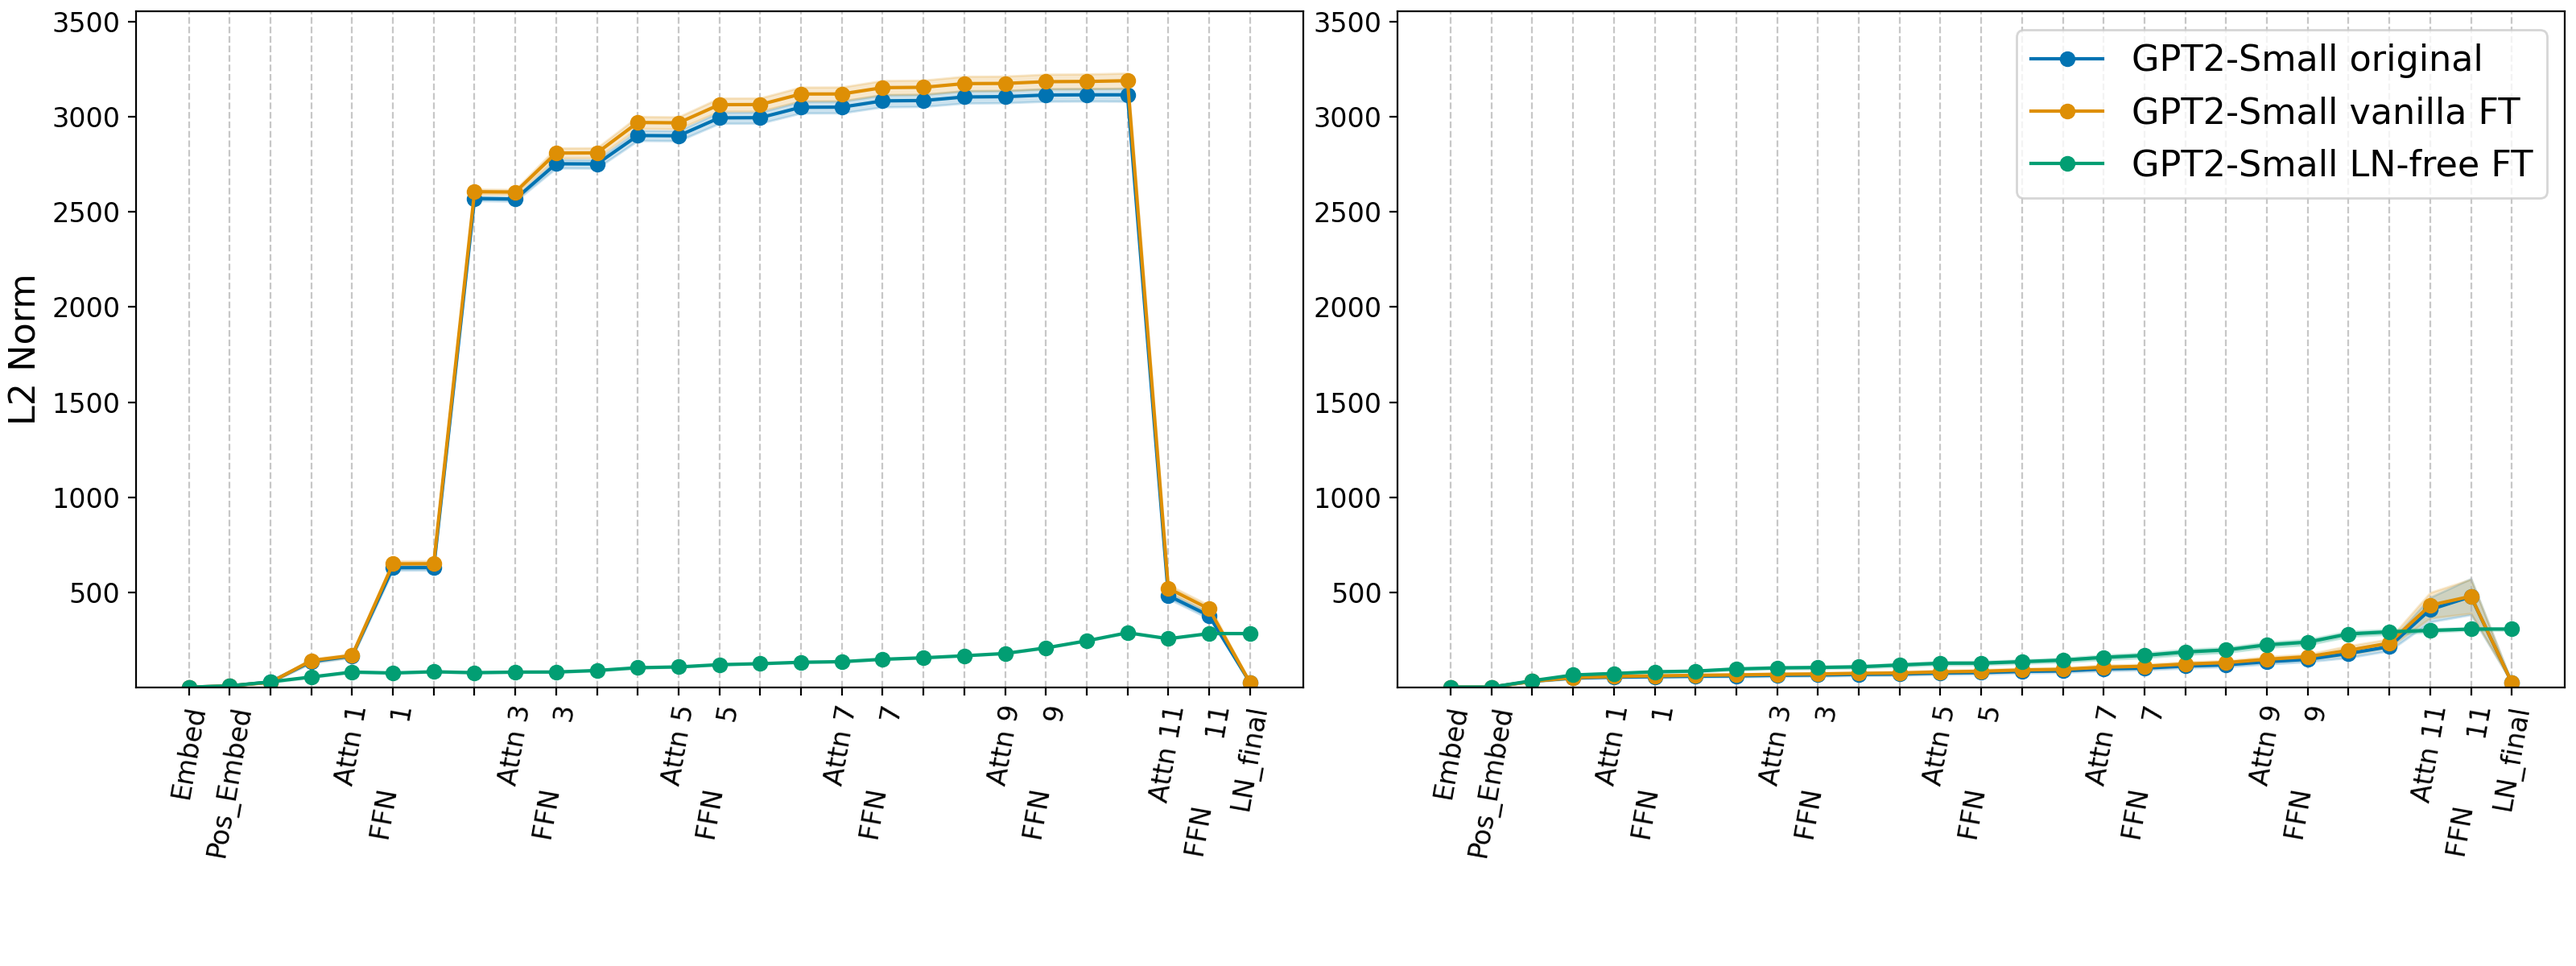
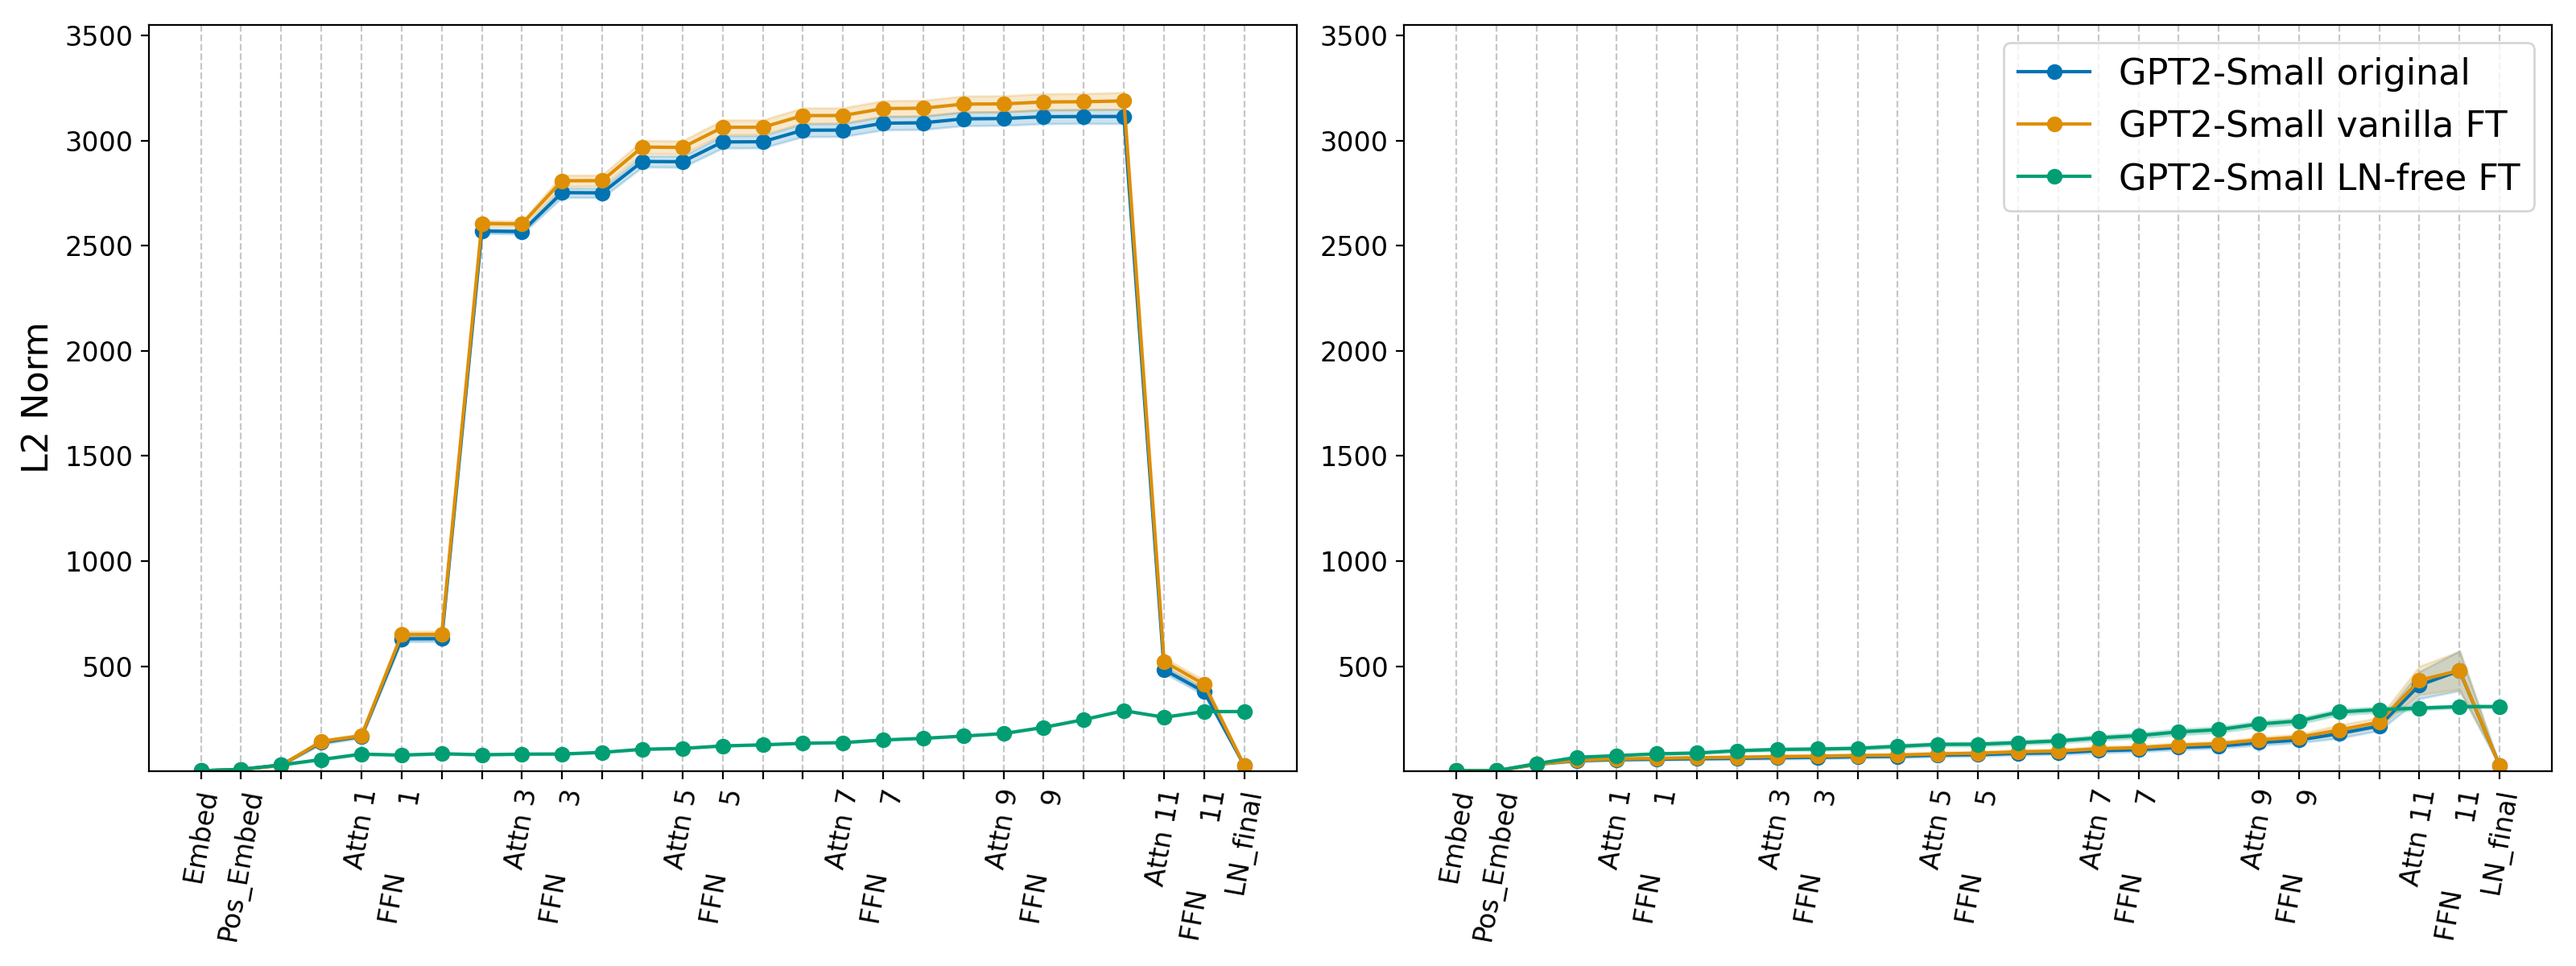
figures in residual norm updated

diff --git a/mech_interp/residual_stream/residual_norms.py b/mech_interp/residual_stream/residual_norms.py
@@ -395,7 +395,7 @@ class ResidualNorms:
             # Set consistent y-axis limits for both subplots
             ax.set_ylim(global_min * 0.9, global_max * 1.1)
         
-        plt.tight_layout(pad=0.5, rect=[0, 0.1, 1, 1])
+        plt.tight_layout()
         if save_path:
             plt.savefig(save_path, dpi=200)
         else:
@@ -664,7 +664,7 @@ def create_readable_tick_labels(layers):
 
 
 if __name__ == '__main__':
-    model_str = 'small'
+    model_str = 'medium'
     data_paths = f'/workspace/removing-layer-norm/mech_interp/inference_logs/gpt2-{model_str}_dataset_luca-pile_samples_1000_seqlen_512_prepend_False/inference_results.parquet'
     output_dir = f'figures/{model_str}/bos_vs_rest'
     # Ensure output directory exists
